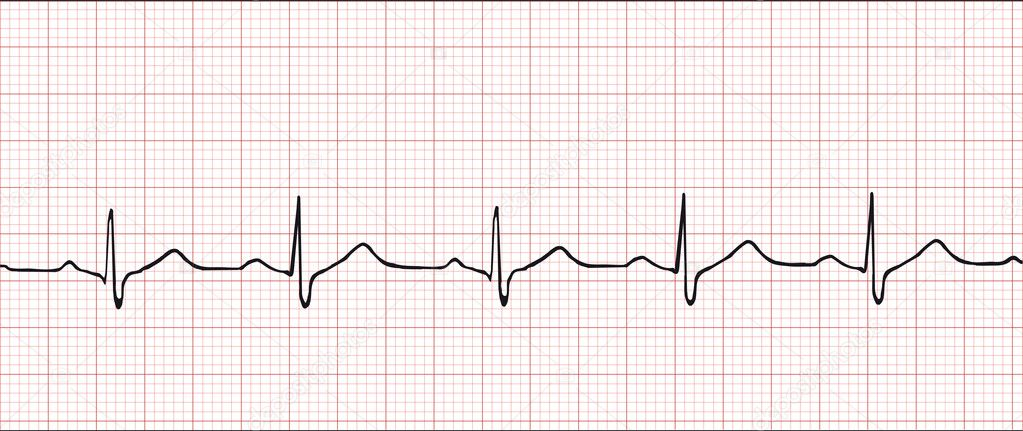
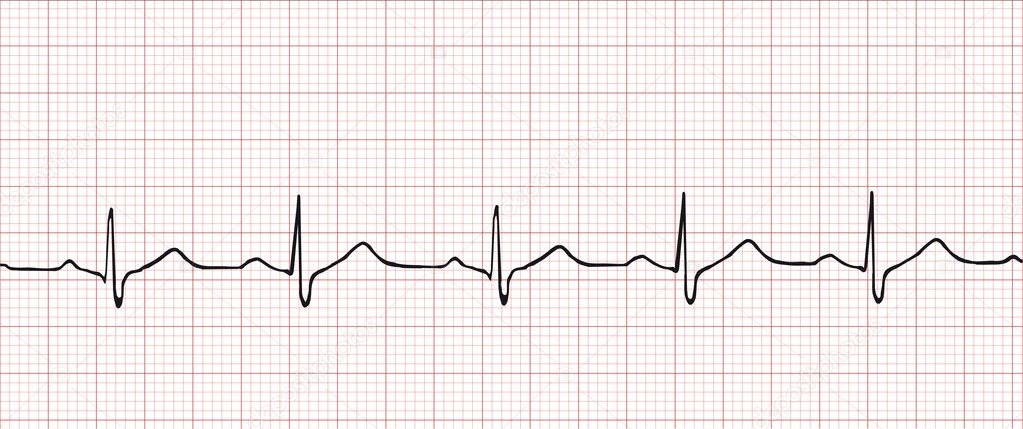
Deleting backgroud
Были сделаны следующие вещи:
- test.py - Реализованы 2 метода выделения заднего фона, и наиболее удачный из них (метод Оцу - метод динамического выделения порога) был перенесён в файл main.py. Реализован маленький метод crop_image, который обрезает изображение, но он немного костыльный, его можно улучшить. Заложена основа для выделения точек (экстремумов), но пока что нет реализации. Более-менее понятные комментарии по коду.
- main.py - сюда перенесены лучше всего (или хотя) работающие функции из test.py
-папка images - добавлен файл EKG-2 (на нём тестилась эффективность работы обоих алгоритмов выделения, Оцу показал себя лучше), а также файлы по типу "ECG-n_w_b.jpeg" и "ECG-n_Outsus.jpeg", в которых сохранены результаты работы обеих функций порогового выделения (названия соответствуют)

diff --git a/test.py b/test.py
@@ -1,0 +1,58 @@
+import cv2 as cv
+import numpy as np
+
+# Данная функция находит график кардиограммы и делает его белым цветом, а фон - чёрным
+# Есть минус - она не универсальна и вряд ли заработает для других изображений
+def delete_background(img_name):
+    hsv_min = np.array((0, 0, 0), np.uint8)  # Минимальный порог цвета
+    hsv_max = np.array((240, 255, 120), np.uint8)  # Максимальный порог цвета
+
+    img = cv.imread(f'images/{img_name}.jpeg')  # Чтение изображения
+    cv.imshow('Original', img)  # Показывает изображение
+
+    img_in_HSV = cv.cvtColor(img, cv.COLOR_BGR2HSV)  # Перевод изображения из цветовой палитры RGB (порядок изнальчно изменён, BGR) в палитру HSV
+    img_with_HSV_filter = cv.inRange(img_in_HSV, hsv_min, hsv_max) # Применяет к изобрежнию фильтр
+
+    cv.imshow('Filtered', img_with_HSV_filter)  # Показывает обработанное изображение
+    cv.imwrite(f'images/{img_name}_w-b.jpeg', img_with_HSV_filter)  # Сохраняет новое изображение
+    cv.waitKey(0)
+    
+    return img_with_HSV_filter
+
+# Метод Оцу, который автоматически подбирает порог цвета и удаляет фон
+def Otsus_method(img_name):
+    img = cv.imread(f'images/{img_name}.jpeg')  # Чтение изображения
+    cv.imshow("Original", img)  # Показ изображения
+
+    gray_img = cv.cvtColor(img, cv.COLOR_BGR2GRAY)  # Преобразование исходного изображения в ч/б
+    blur_img = cv.GaussianBlur(gray_img, (3, 3), 0)  # Размытие изображения для удаления клеточек
+
+    (T, img_with_filter) = cv.threshold(blur_img, 0, 255, cv.THRESH_BINARY_INV | cv.THRESH_OTSU)  # Применение фильтра
+    cv.imshow("Filtered", img_with_filter)  # Показ изображения
+    cv.imwrite(f'images/{img_name}-Otsus.jpeg', img_with_filter)  # Сохранение изображения
+    cv.waitKey(0) 
+
+    return img_with_filter
+
+# Функция, которая обрезает изображение сверху и снизу на 1 пиксель (была нужна, потому что исходное изображение ECG-1 сверху и снизу имело чёрную маленькую рамку)
+def crop_image(img_name): 
+    img = cv.imread(f'images/{img_name}.jpeg')
+    y0 = 1
+    y1 = img.shape[0]-1
+    crop_img = img[y0:y1]
+    cv.imshow('cropped', crop_img)
+    cv.imwrite(f'images/{img_name}.jpeg', crop_img)
+    cv.waitKey(0)
+
+    return crop_img
+
+# Функция, которая размечает на ч/б изображении пиковые точки и возвращает их координаты
+def marking_image(w_b_image):
+    # TODO сделать реализацию отметки точек
+    pass
+
+
+# Вызовы функций
+# crop_image('ECG-1')
+# delete_background('ECG-1')
+# Otsus_method('ECG-1')

diff --git a/main.py b/main.py
@@ -1,0 +1,30 @@
+import cv2 as cv
+import numpy as np
+
+
+# Метод Оцу, который автоматически подбирает порог цвета и удаляет фон
+def Otsus_method(img_name):
+    img = cv.imread(f'images/{img_name}.jpeg')  # Чтение изображения
+    cv.imshow("Original", img)  # Показ изображения
+
+    gray_img = cv.cvtColor(img, cv.COLOR_BGR2GRAY)  # Преобразование исходного изображения в ч/б
+    blur_img = cv.GaussianBlur(gray_img, (3, 3), 0)  # Размытие изображения для удаления клеточек
+
+    (T, img_with_filter) = cv.threshold(blur_img, 0, 255, cv.THRESH_BINARY_INV | cv.THRESH_OTSU)  # Применение фильтра
+    cv.imshow("Filtered", img_with_filter)  # Показ изображения
+    cv.imwrite(f'images/{img_name}-Otsus.jpeg', img_with_filter)  # Сохранение изображения
+    cv.waitKey(0) 
+
+    return img_with_filter
+
+# Функция, которая обрезает изображение сверху и снизу на 1 пиксель (была нужна, потому что исходное изображение ECG-1 сверху и снизу имело чёрную маленькую рамку)
+def crop_image(img_name): 
+    img = cv.imread(f'images/{img_name}.jpeg')
+    y0 = 1
+    y1 = img.shape[0]-1
+    crop_img = img[y0:y1]
+    cv.imshow('cropped', crop_img)
+    cv.imwrite(f'images/{img_name}.jpeg', crop_img)
+    cv.waitKey(0)
+
+    return crop_img
